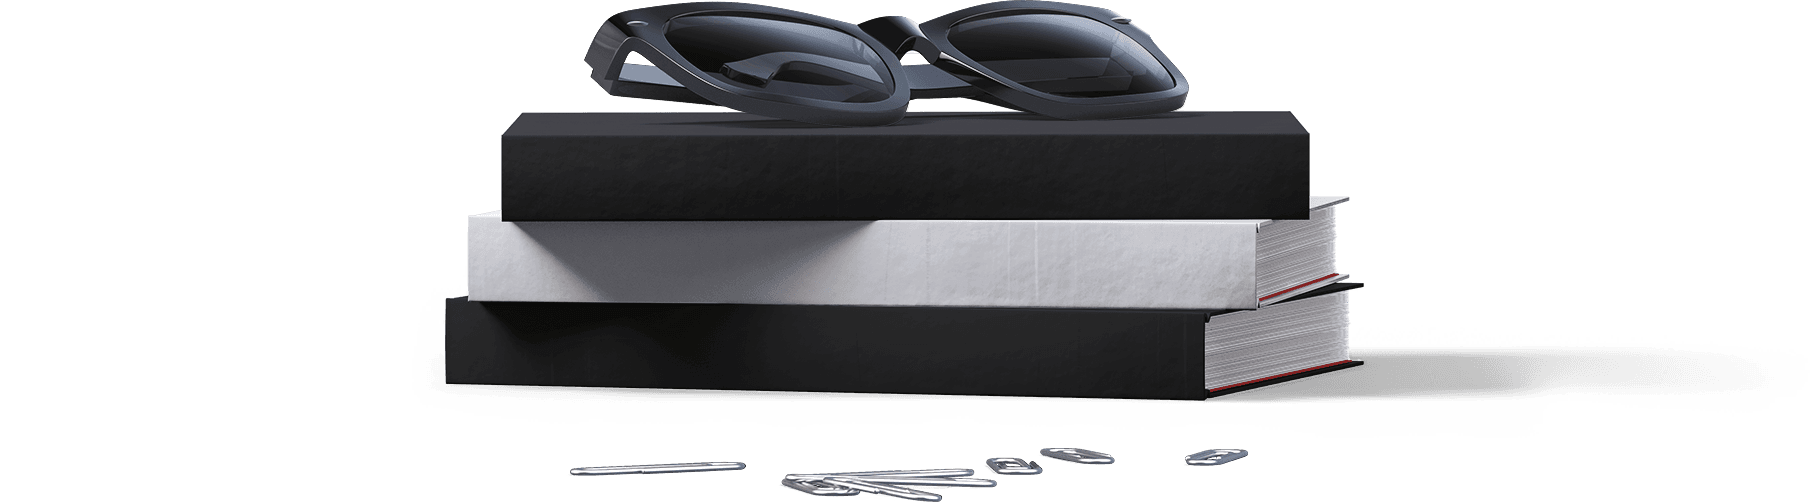
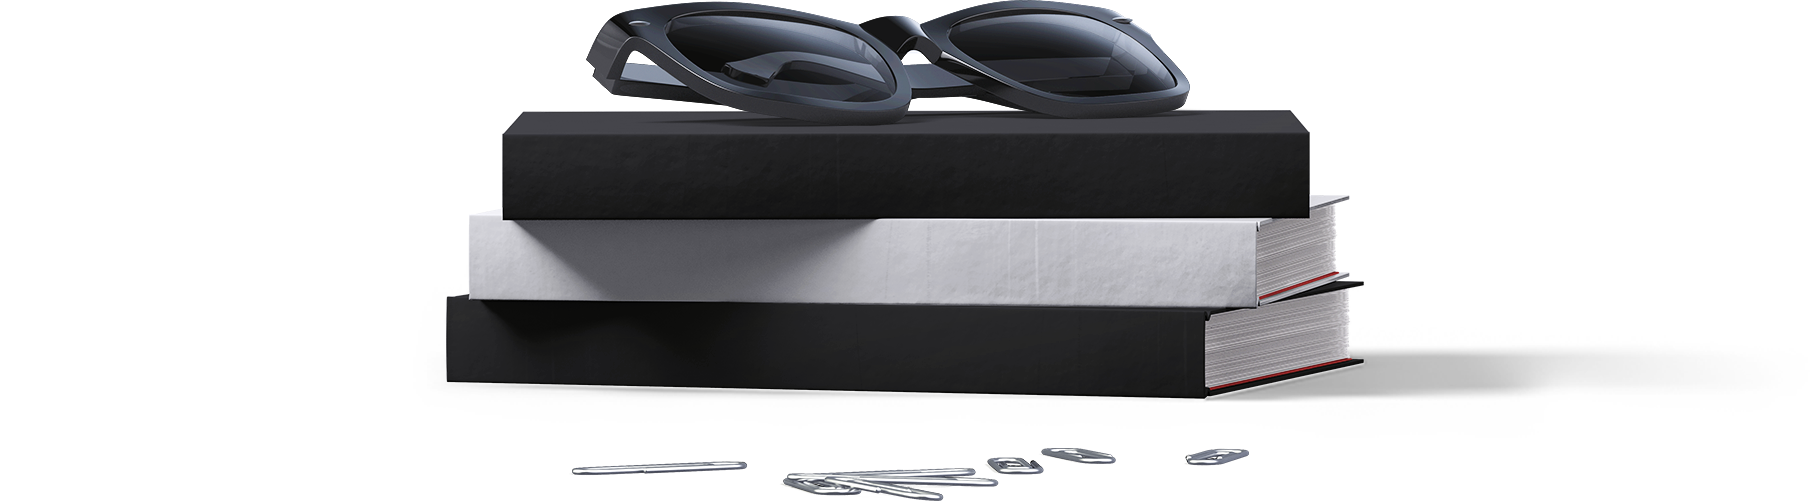
retina support for images

diff --git a/css/app.css b/css/app.css
@@ -414,8 +414,7 @@ header {
     text-align: center;
     margin: 20px auto 0;
     z-index: 1;
-    border-radius: 5px;
-    transition: box-shadow 0.3s cubic-bezier(0.455, 0.03, 0.515, 0.955) 0s; }
+    border-radius: 5px; }
     .featured-projects .project-list:hover figcaption {
       opacity: 1; }
     .featured-projects .project-list figcaption {

diff --git a/scss/app.scss b/scss/app.scss
@@ -578,7 +578,6 @@ header {
 		margin: 20px auto 0;
 		z-index: 1;
 		border-radius: 5px;
-		transition: box-shadow .3s $default-transition 0s;
 
 		&:hover {
 

diff --git a/honda.php b/honda.php
@@ -36,7 +36,7 @@
       <section class="project-info">
     
         <div class="img-divide">
-          <img src="img/honda01.png" alt="lorem ipsum">
+          <img data-interchange="[img/honda01.png, small], [img/honda01@2x.png, retina]">
         </div>
 
         <div class="row">
@@ -55,10 +55,10 @@
       <section class="project-full">
 
         <ul>
-          <li><img src="img/honda02.png" alt="lorem ipsum"></a></li>
-          <li><img src="img/honda03.png" alt="lorem ipsum"></a></li>
-          <li><img src="img/honda04.png" alt="lorem ipsum"></a></li>
-          <li><img src="img/honda05.png" alt="lorem ipsum"></a></li>
+          <li><img data-interchange="[img/honda02.png, small], [img/honda02@2x.png, retina]"></li>
+          <li><img data-interchange="[img/honda03.png, small], [img/honda03@2x.png, retina]"></li>
+          <li><img data-interchange="[img/honda04.png, small], [img/honda04@2x.png, retina]"></li>
+          <li><img data-interchange="[img/honda05.png, small], [img/honda05@2x.png, retina]"></li>
         </ul>
 
       </section>

diff --git a/index.php b/index.php
@@ -36,7 +36,7 @@
       <section class="about-me" id="about">
 
         <div class="img-divide">
-          <img data-interchange="[img/books_small@2x.png, small], [img/books_small@2x.png, medium], [img/books@2x.png, large]" class="books" alt="">
+          <img src="img/books@2x.png" class="books" alt="">
         </div>
 
         <div class="row">

diff --git a/scripts.php b/scripts.php
@@ -1,6 +1,7 @@
 <script src="js/vendor/jquery.js"></script>
     <script src="js/vendor/what-input.js"></script>
     <script src="js/vendor/foundation.js"></script>
+    <script src="js/vendor/foundation.interchange.js"></script>
     <script src="js/app.js"></script>
     <script src="js/jquery-ui.js"></script>
 
